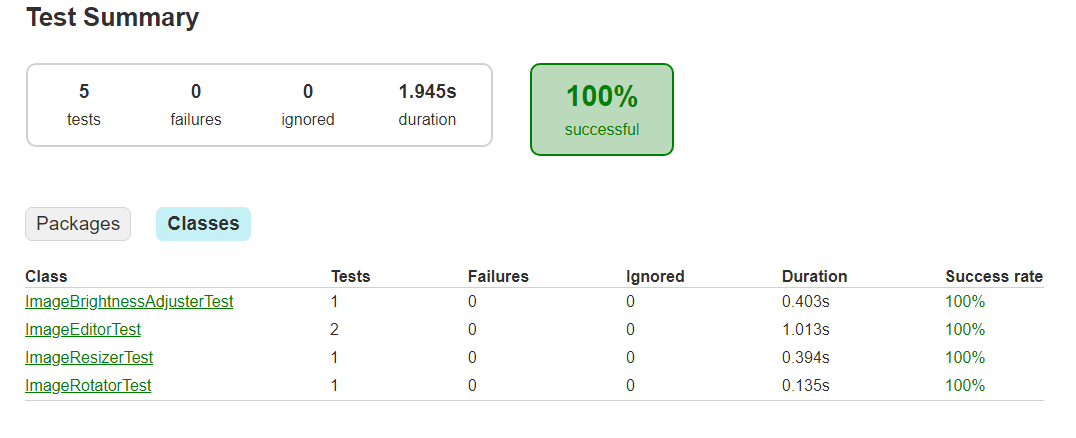
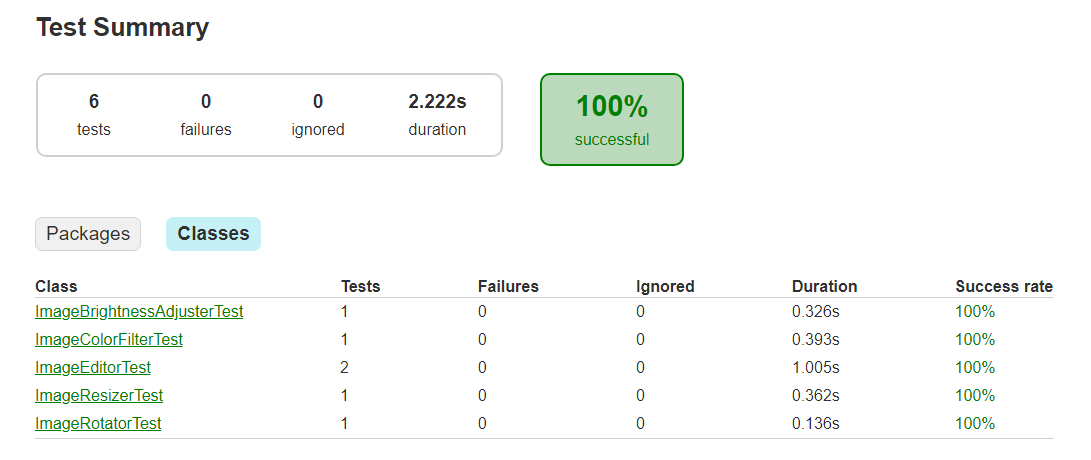
laggt till info om en ny funktion och skrivit klart reflektionen

diff --git a/app/src/main/java/org/example/app/ImageColorFilter.java b/app/src/main/java/org/example/app/ImageColorFilter.java
@@ -6,7 +6,7 @@ import java.awt.image.BufferedImage;
 public class ImageColorFilter {
 
     // Justerar rgb värderna på bilden.
-    public BufferedImage adjustColor(BufferedImage image, int red, int green, int blue) {
+    public BufferedImage adjustColor(BufferedImage image, float red, float green, float blue) {
         BufferedImage brightenedImage = new BufferedImage(image.getWidth(), image.getHeight(), image.getType());
         for (int y = 0; y < image.getHeight(); y++) {
             for (int x = 0; x < image.getWidth(); x++) {

diff --git a/testrapport.md b/testrapport.md
@@ -1,7 +1,8 @@
 # Testrapport
 
-För att testa min kod har jag skrivit några tester som körs när man kör gradle build. Det jag testar först med testBrightnessAdjustment() är min adjustBrightness funktion genom att jämföra min bilds färger med bilden som jag fick tillbaks när jag kört adjustBrightness på den.    
-Mitt andra test kollar så att min ImageEditor laddar in bilden korrekt, och det tredje testet är på ImageEditorn med, där den då testar så att det fungerar att spara ner en bild genom att först köra saveImage() och sedan kolla så att filen faktist finns.  
+För att testa min kod har jag skrivit några tester som körs när man kör gradle build. Det jag testar först med testBrightnessAdjustment() är min adjustBrightness funktion genom att jämföra min bilds färger med bilden som jag fick tillbaks när jag kört adjustBrightness på den.  
+När jag testar adjustColor() så skapar jag en bild som jag bara ändrar den blåa färgen på och sedan kollar jag så att den gröna och röda är oförändrade från orginalbilden och så att den blåa inte är samma.
+Mitt tredje test kollar så att min ImageEditor laddar in bilden korrekt, och det tredje testet är på ImageEditorn med, där den då testar så att det fungerar att spara ner en bild genom att först köra saveImage() och sedan kolla så att filen faktist finns.  
 För att testa min resizeImage() funktion så kör jag den på en bild och kollar sedan om bilden jag får tillbaks har samma hjöd och bredd som jag satt att jag ville ha.  
 Till sist så testar jag rotateImage() genom att kolla så att det jag inte får tillbaks är null, men för att faktist testa funktionen så att den verkligen roterar bilden kan jag spara ner bilden och sedan manuellt kolla på bilden.
 
@@ -11,6 +12,7 @@ Till sist så testar jag rotateImage() genom att kolla så att det jag inte får
 | Metod                 | Hur               | Resultat    |
 | ----------------------|:-----------------:|-------------|
 | BrightnessAdjustment()| Testfunktionen tar färgerna röd grön och blå från orginalbilden och jämför färgerna mot bilden som körts genom BrightnessAdjustment().         | Passed      |
+| ColorFilter()         | Funktionen kör adjustColor() på en bild och ser till så att den röda och gröna färgen är oförändrad medans den blåa färger blir mycket starkare och sedan tar den värderna från den nya bilden och ser till så att den röda och gröna är den samma medans den blåa inte ska vara det. | Passed |
 | ImageLoading()	    | Jag skapar en ImageEditor med en bild och kör sedan getImage() och kollar så att den inte är null.                                             | Passed      |
 | ImageSaving()         | Här skapar jag upp en ImageEditor med en bild och kör sedan saveImage() och kollar därefter om en ny fil verkligen skapades med det filnamnet. | Passed      |
 | ImageResizing()	    | Här så kör jag metoden resizeImage() på en bild och sedan kollar jag så att både höjden och bredden är samma som jag satt att den skulle vara. | Passed      |

diff --git a/README.md b/README.md
@@ -15,6 +15,8 @@ För att ändra storlek på en bild så får du skapa en ImageResizer som du kan
 
 För att ändra ljusstyrka så använder du dig av ImageBrightnessAdjuster som du kör adjustBrightness() på där du som parametrar skickar in din bild (ImageEditor.getImage()) och sedan en float på hur stark ljusstyrkan ska multipliceras med. > 1 ökar ljusstyrkan och < 1 minskar den.
 
+Om du vill göra ett eget filter på bilden så använder du dig av ImageColorFilter och kör adjustColor() på din bild där du skickar in parametrarna bilden du vill ändra (ImageEditor.getImage()) och sedan 3 Floats som justerar den röda, gröna och blåa färgen på bilden. Så om du exempelvis bara vill ha en bild med ett rött filter skickar du in (bilden, 1, 0, 0) då den första är Röd den andra är Grön och den tredje Blå.
+
 Om du vill rotera bilden så använder du dig av ImageRotator och kör rotateImage() på den och som parametrar skickar du in din bild (ImageEditor.getImage()) och sedan antalet grader bilden ska roteras med som en int. När du skickar in ett positivt tal så roteras bilden åt höger och om du skickar in ett negativt tal så roteras den åt vänster.
 
 För att sätta en ny bild antingen den du nyss redigerat genom att rotera eller liknande eller om du vill använda dig av en helt ny bild så använder du ImageEditor.setImage() där filvägen till bilden skickas in som parameter.
@@ -23,4 +25,5 @@ När du sedan ska spara bilden du redigerat så använder du dig av ImageEditor.
 
 ### Exempel
 
-Exempel på hur du kan implementera dett i din egen kod hittar du i [Example.java](https://github.com/Jollepolle123/L2/blob/main/app/src/main/java/org/example/app/Example.java)
+Exempel på hur du kan implementera detta i din egen kod hittar du i [Example.java](https://github.com/Jollepolle123/L2/blob/main/app/src/main/java/org/example/app/Example.java).  
+Jag har även exemplerna på hur bilderna ser ut när man kör min exempel kod och dem ligger i mappen [app/images](https://github.com/Jollepolle123/L2/tree/main/app/images).

diff --git a/reflektion.md b/reflektion.md
@@ -1,6 +1,9 @@
 # Reflektion
 
-Jag tyckte först det var rätt så mycket och ha alla funktioner i ImageEditor men efter en stund kändes det krångligare att ha så många olika klasser.
+Jag tyckte först det var rätt så mycket och ha alla funktioner i ImageEditor men efter en stund kändes det krångligare att ha så många olika klasser.  
+En grej jag inte håller med boken om är att man inte ska ha förkortningar på namn utan att man alltid ska vara så tydlig som möjligt. Detta kan jag hålla med om till viss del såklart men tycker att det är lite överdrivet att ALLA variabler ska vara så då det enligt mig blir för långa namn som ska upprepas många gånger vilket kan resultera att koden blir för kladdig. Ett exempel på detta är mina variabler r, g och b som jag själv kan tycka att man borde förstå står för red, green och blue speciellt när jag håller på med bild redigering.  
+En grej jag kan hålla med om från boken är DRY Do not Repeat Yourself som jag försökte hålla mig till så bra som möjligt men när det kom till att lägga till adjustColor() funktionen så är den väldigt lik adjustBrightness() bara att jag multiplicerar alla färger med olika värden istället för samma, detta skulle jag absolut kunnat göra en gemensam funktion för men då jag hade lite ont om tid och inte tyckte det var hela världen så fick det bli så.  
+Att man ska skriva funktioner som "Do One Thing" är absolut väldigt viktigt för att kunna förstå koden men jag tycker även att det kan bli lite jobbigt om man gör alldeles för många funktioner, då funktionen bara ska "göra en grej" blir det ju svårt att säga vad en grej är då man kan behöva flera steg för att göra en grej men jag tycker att mina funktioner gör en grej var rätt så bra.
 
 ## Namngivning
 
